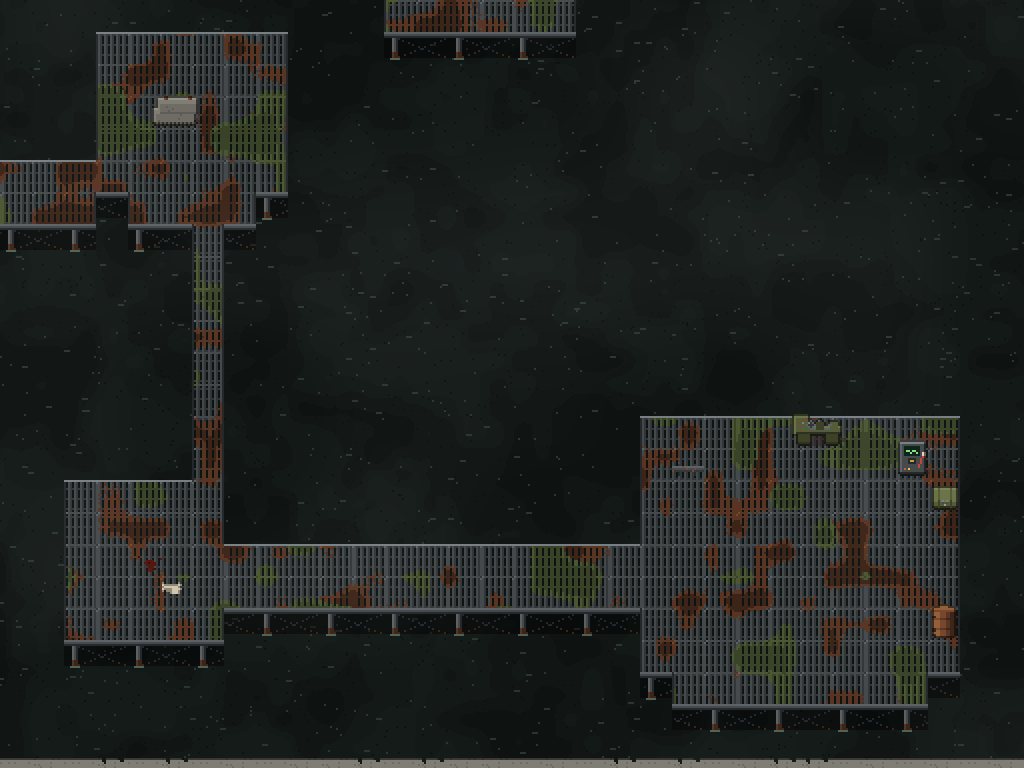
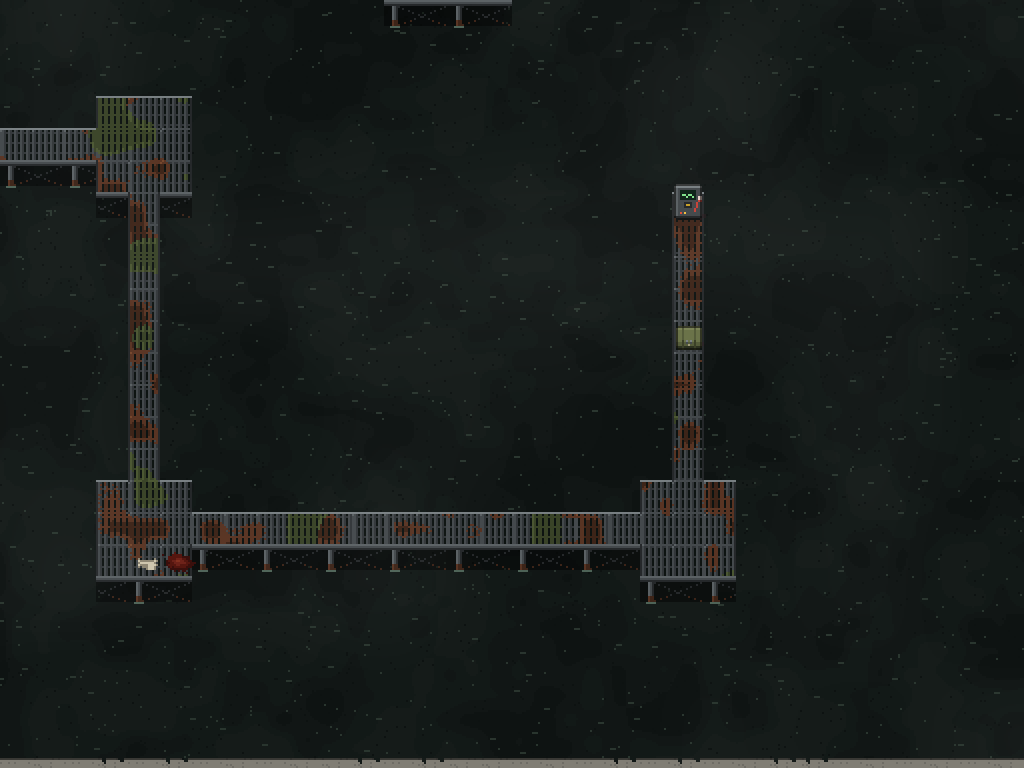
Depths levels 1-2: 3x3 islands, single catwalks, pumps at the end of thin spurs
Claude-Session: https://claude.ai/code/session_01JJL3emrHtazYD3rAoJR8Qe

Changed region(s): [[0.0625, 0.0312, 0.9375, 0.9688], [0.0, 0.1562, 0.0938, 0.3438], [0.375, 0.0, 0.5625, 0.0938]]

diff --git a/Assets/Scripts/GameCore/TierDungeons.LabPlans.cs b/Assets/Scripts/GameCore/TierDungeons.LabPlans.cs
@@ -290,37 +290,37 @@ namespace GameCore
                 "################################################################",
                 "################################################################",
                 "##WWWWWWWWWWWWWWWWWWWWWWWWWWWWWWWWWWWWWWWWWWWWWWWWWWWWWWWWWWWW##",
-                "##W=e======WWWWWWWWWWWWWWWWWWWWWWWWWWWWWWWWWWWWWWWWWWWWWWWWWWW##",
-                "##W==U=====WWWWW=====WWWWWWWWWWWWWWWWWWWWWWWWWWWWWWWWWWWWWWWWW##",
-                "##W========WWWWW=====WWWWWWWWWWWWWWWWWWWWWWWWWWWWWWWWWWWWWWWWW##",
-                "##W=================*WWWWWWWWWWWWWWWWWWWWWWWWWWWWWWWWWWWWWWWWW##",
-                "##W==================WWWWWWWWWWWWWWWWWWWWWWWWWWWWWWWWWWWWWWWWW##",
-                "##WW=======WWWWW====WWWWWWWWWWWWWWWWWWWW======WWWWWWWWWWWWWWWW##",
-                "##WWWWWWWWWWWWWWWW==WWWWWWWWWWWWWWWWWWWW====e=WWWWWWWWWWWWWWWW##",
-                "##WWWWWWWWWWWWWWWW==WWWWWWWWWWWWWWWWWWWW==S===WWWWWWWWWWWWWWWW##",
-                "##WWWWWWWWWWWWWWWW==WWWWWWWWWWWWWWWWWWWW======WWWWWWWWWWWWWWWW##",
-                "##WWWWWWWWWWWWWWWW==WWWWWWWWWWWWWWWWWWWW======WWWWWWWWWWWWWWWW##",
-                "##WWWWWWWWWWWWWWWW==WWWWWWWWWWW======WWWWWWWWWWWWWWWWWWWWWWWWW##",
-                "##WW====WWWWWWWWWW==WWWWWWWWWWW======WWWWWWWWWWWWWWWWWWWWWWWWW##",
-                "##WW=c==WWWWWW======WWWWWWWWWWW==h===WWWWWWWWWWWWWWWWWWWWWWWWW##",
-                "##WW==\"=============WWWWWWWWWWW======WWWWWWWWWWWWWWWWWWWWWWWWW##",
-                "##WW====WWWWWW=======================WWWWWWWWWWWWWWWWWWWWWWWWW##",
-                "##WWWWWWWWWWWWW================W====WWWWWWWWWWWWWWWWWWWWWWWWWW##",
-                "##WWWWWWWWWWWWWWWWWWWWWWWWWWWWWWWW=WWWWWWWWWWWWWWWWWWWWWWWWWWW##",
-                "##WWWWWWWWWWWWWWWWWWWWWWWWWWWWWWWW=WWWWWWWWWWWWWWWWWWWWWWWWWWW##",
-                "##WWWWWWWWWWWWWWWWWWWWWWWWWWWWWWWW=WWWWWWWWWWWWWWWWWWWWWWWWWWW##",
-                "##WWWWWWWWWWWWWWWWWWWWWWWWWWWWWWWW=WWWWWWWWWWWWWWWWWWWWWWWWWWW##",
-                "##WWWWWWWWWWWWWWWWWWWWWWWWWWWWWWWW=WWWWWWWWWWWWWWWWWWWWWWWWWWW##",
-                "##WWWWWWWWWWWWWWWWWWWWWWWWWWWWWWWW=WWWWWWWWWWWWWWWWWWWWWWWWWWW##",
-                "##WWWWWWWWWWWWWWWWWWWWWWWWWWWWWWWW=WWWWWWWWWWWWW=====m====WWWW##",
-                "##WWWWWWWWWWWWWWWWWWWWWWWWWWWWWWWW=WWWWWWWWWWWWW=p======6=WWWW##",
-                "##WWWWWWWWWWWWWWWWWWWWWWWWWWWW=====WWWWWWWWWWWWW==========WWWW##",
-                "##WWWWWWWWWWWWWWWWWWWWWWWWWWWW=====WWWWWWWWWWWWW==========WWWW##",
-                "##WWWWWWWWWWWWWWWWWWWWWWWWWWWW==~=========================WWWW##",
-                "##WWWWWWWWWWWWWWWWWWWWWWWWWWWW===&========================WWWW##",
-                "##WWWWWWWWWWWWWWWWWWWWWWWWWWWW=====WWWWWWWWWWWWW=========bWWWW##",
-                "##WWWWWWWWWWWWWWWWWWWWWWWWWWWWWWWWWWWWWWWWWWWWWW==i=======WWWW##",
-                "##WWWWWWWWWWWWWWWWWWWWWWWWWWWWWWWWWWWWWWWWWWWWWWW========WWWWW##",
+                "##W=e===WWWWWWWWWWWWWWWWWWWWWWWWWWWWWWWWWWWWWWWWWWWWWWWWWWWWWW##",
+                "##W==U==WWWWWWWW===WWWWWWWWWWWWWWWWWWWWWWWWWWWWWWWWWWWWWWWWWWW##",
+                "##W==============*=WWWWWWWWWWWWWWWWWWWWWWWWWWWWWWWWWWWWWWWWWWW##",
+                "##WW====WWWWWWWW===WWWWWWWWWWWWWWWWWWWWWWWWWWWWWWWWWWWWWWWWWWW##",
+                "##WWWWWWWWWWWWWWW=WWWWWWWWWWWWWWWWWWWWWWWWWWWWWWWWWWWWWWWWWWWW##",
+                "##WWWWWWWWWWWWWWW=WWWWWWWWWWWWWWWWWWWWWW===eWWWWWWWWWWWWWWWWWW##",
+                "##WWWWWWWWWWWWWWW=WWWWWWWWWWWWWWWWWWWWWW=S==WWWWWWWWWWWWWWWWWW##",
+                "##WWWWWWWWWWWWWWW=WWWWWWWWWWWWWWWWWWWWWW====WWWWWWWWWWWWWWWWWW##",
+                "##WWWWWWWWWWWWWWW=WWWWWWWWWWWWWWWWWWWWWW====WWWWWWWWWWWWWWWWWW##",
+                "##WWWWWWWWWWWWWWW=WWWWWWWWWWWWWWWWWWWWWWWWWWWWWWWWWWWWWWWWWWWW##",
+                "##WWWWWWWWWWWWWWW=WWWWWWWWWWWWWWWWWWWWWWWWWWWWWWWWWWWWWWWWWWWW##",
+                "##WWWWWWWWWWWWWWW=WWWWWWWWWWWWWWWWWWWWWWWWWWWWWWWWWWWWWWWWWWWW##",
+                "##WWWc==WWWWWWWW===WWWWWWWWWWWW===WWWWWWWWWWWWWWWWWWWWWWWWWWWW##",
+                "##WWW=============================WWWWWWWWWWWWWWWWWWWWWWWWWWWW##",
+                "##WWW===WWWWWWWW===WWWWWWWWWWWW===WWWWWWWWWWWWWWWWWWWWWWWWWWWW##",
+                "##WWWWWWWWWWWWWWWWWWWWWWWWWWWWWW=WWWWWWWWWWWWWWWW6WWWWWWWWWWWW##",
+                "##WWWWWWWWWWWWWWWWWWWWWWWWWWWWWW=WWWWWWWWWWWWWWWWiWWWWWWWWWWWW##",
+                "##WWWWWWWWWWWWWWWWWWWWWWWWWWWWWW=WWWWWWWWWWWWWWWW=WWWWWWWWWWWW##",
+                "##WWWWWWWWWWWWWWWWWWWWWWWWWWWWWW=WWWWWWWWWWWWWWWW=WWWWWWWWWWWW##",
+                "##WWWWWWWWWWWWWWWWWWWWWWWWWWWWWW=WWWWWWWWWWWWWWWW=WWWWWWWWWWWW##",
+                "##WWWWWWWWWWWWWWWWWWWWWWWWWWWWWW=WWWWWWWWWWWWWWWW=WWWWWWWWWWWW##",
+                "##WWWWWWWWWWWWWWWWWWWWWWWWWWWWWW=WWWWWWWWWWWWWWWW=WWWWWWWWWWWW##",
+                "##WWWWWWWWWWWWWWWWWWWWWWWWWWWWWW=WWWWWWWWWWWWWWWW=WWWWWWWWWWWW##",
+                "##WWWWWWWWWWWWWWWWWWWWWWWWWWWWWW=WWWWWWWWWWWWWWWW=WWWWWWWWWWWW##",
+                "##WWWWWWWWWWWWWWWWWWWWWWWWWWWWW===WWWWWWWWWWWWWW===WWWWWWWWWWW##",
+                "##WWWWWWWWWWWWWWWWWWWWWWWWWWWWW====================WWWWWWWWWWW##",
+                "##WWWWWWWWWWWWWWWWWWWWWWWWWWWWW=&*WWWWWWWWWWWWWW===WWWWWWWWWWW##",
+                "##WWWWWWWWWWWWWWWWWWWWWWWWWWWWWWWWWWWWWWWWWWWWWWWWWWWWWWWWWWWW##",
+                "##WWWWWWWWWWWWWWWWWWWWWWWWWWWWWWWWWWWWWWWWWWWWWWWWWWWWWWWWWWWW##",
+                "##WWWWWWWWWWWWWWWWWWWWWWWWWWWWWWWWWWWWWWWWWWWWWWWWWWWWWWWWWWWW##",
+                "##WWWWWWWWWWWWWWWWWWWWWWWWWWWWWWWWWWWWWWWWWWWWWWWWWWWWWWWWWWWW##",
                 "##WWWWWWWWWWWWWWWWWWWWWWWWWWWWWWWWWWWWWWWWWWWWWWWWWWWWWWWWWWWW##",
                 "##WWWWWWWWWWWWWWWWWWWWWWWWWWWWWWWWWWWWWWWWWWWWWWWWWWWWWWWWWWWW##",
                 "##WWWWWWWWWWWWWWWWWWWWWWWWWWWWWWWWWWWWWWWWWWWWWWWWWWWWWWWWWWWW##",
@@ -333,40 +333,40 @@ namespace GameCore
                 "################################################################",
                 "################################################################",
                 "##WWWWWWWWWWWWWWWWWWWWWWWWWWWWWWWWWWWWWWWWWWWWWWWWWWWWWWWWWWWW##",
-                "##WWWWWWWWWWWW======WWWWWWWWWWWWWWWWWWWWWWWWWWWWWWWWW=======WW##",
-                "##WWWWWWWWWWWW=c====WWWWWWWWWWWWWWW====WWWWWWWWWWWWW====U===WW##",
-                "##WWWWWWWWWWWW======WWWWWWWWWWWWWWW=====WWWWWWWWWWWW========WW##",
-                "##WWWWWWWWWWWW==============================================WW##",
-                "##WWWWWWWWWWWW====\"=WWWWWWWWWWWWWWW=========================WW##",
-                "##WWWWWWWWWWWW=====WWWWWWWWWWWWWWWWW====WWWWWWWWWWWW=======WWW##",
-                "##WWWWWWWWWWWWWWWWWWWWWWWWWWWWWWWWWWW==WWWWWWWWWWWWWWWWWWWWWWW##",
-                "##WWWWWWWWWWWWWWWWWWWWWW=====WWWWWWWW==WWWWWWWWWWWWWWWWWWWWWWW##",
-                "##WWWWWWWWWWWWWWWWWWWWWW=====WWWWWWWW==WWWWWWWWWWWWWWWWWWWWWWW##",
-                "##WWWWWWWWWWWWWWWWWWWWWW==S==WWWWWWWW==WWWWWWWWWWWWWWWWWWWWWWW##",
-                "##WWWWWWWWWWWWWWWWWWWWWW=====WWWWWWWW==WWWWWWWWWWWWWWWWWWWWWWW##",
-                "##WWWWWWWWWWWWWWWWWWWWWW=====WWWWWWWW==WWWWWWWWWWWWWWWWWWWWWWW##",
-                "##WWWWWWWWWWWWWWWWWWWWWWWWWWWWWWWWWWW==WWWWWWWWWWWWWWWWWWWWWWW##",
-                "##WWWWWWWWWWWWWWW====WWWWWWWWWWWWWWWW==WWWWWWWWWWWWWWWWWWWWWWW##",
-                "##WWWWWWWWWWWWWW======WWWWWWWWWWWWW====WWWWWWWWWWWWWWWWWWWWWWW##",
-                "##WWWWWWWWWWWWWW======WWWWWWWWWWWW======WWWWWWWWWWWWWWWWWWWWWW##",
-                "##WWWWWWWWWWWWWW========================WWWWWWWWWWWWWWWWWWWWWW##",
-                "##WWWWWWWWWWWWWW======WWWWWWWWWWWW======WWWWWWWWWWWWWWWWWWWWWW##",
-                "##WWWWWWWWWWWWWWW====WWWWWWWWWWWWWW=====WWWWWWWWWWWWWWWWWWWWWW##",
-                "##WWWWWWWWWWWWWWWW=WWWWWWWWWWWWWWWWWWW==WWWWWWWWWWWWWWWWWWWWWW##",
-                "##WWWWWWWWWWWWWWWW=WWWWWWWWWWWWWWWWWWW==WWWWWWWWWWWWWWWWWWWWWW##",
-                "##WWWWWWWWWWWWWWWW=WWWWWWWWWWWWWWWWWWW==WWWWWWWWWWWWWWWWWWWWWW##",
-                "##WWWWWWWWWWWWWWWW=WWWWWWWWWWWWWWWWWWW==WWWWWWWWWWWWWWWWWWWWWW##",
-                "##WWWWWWWWWWWWWWWW=WWWWWWWWWWWWWWWWWWW==WWWWWWWWWWWWWWWWWWWWWW##",
-                "##WWWWWWWWWWWWWWWW=WWWWWWWWWWWWWWWWWWW==WWWWWWWWWWWWWWWWWWWWWW##",
-                "##WWWWWWWWWWWWWWWW=WWWWWWWWWWWWWWWWWWW==WWWWWWWWWW==========WW##",
-                "##WWWWWWWWWWWWW======WWWWWWWWWWWWWWWWW==WWWWWWWWWW==mm======WW##",
-                "##WWWWWWWWWWWW=====*=WWWWWWWWWWWWWWWWW==WWWWWWWWWW=======6==WW##",
-                "##WWWWWWWWWWWW=======WWWWWWWWWWWWWW======WWWWWWWWW==========WW##",
-                "##WWWWWWWWWWWW=======WWWWWWWWWWWWWW=======WWWWWWWW==========WW##",
-                "##WWWWWWWWWWWW=t=====WWWWWWWWWWWWWW=e=======================WW##",
-                "##WWWWWWWWWWWWW======WWWWWWWWWWWWWW=======WWWWWWWW=====e====WW##",
-                "##WWWWWWWWWWWWWWWWWWWWWWWWWWWWWWWWW=======WWWWWWWW========x=WW##",
-                "##WWWWWWWWWWWWWWWWWWWWWWWWWWWWWWWWW======WWWWWWWWW==========WW##",
+                "##WWWWWWWWWWWWWWWWWWWWWWWWWWWWWWWWWWWWWWWWWWWWWWWWWWWWWW===WWW##",
+                "##WWWWWWWWWWWWWWWWWc==WWWWWWWWWWWWWWWWWW===WWWWWWWWWWWW==U=WWW##",
+                "##WWWWWWWWWWWWWWWWW========================================WWW##",
+                "##WWWWWWWWWWWWWWWWW===WWWWWWWWWWWWWWWWWW===WWWWWWWWWWWW===WWWW##",
+                "##WWWWWWWWWWWWWWWWWWWWWWWWWWWWWWWWWWWWWWW=WWWWWWWWWWWWWWWWWWWW##",
+                "##WWWWWWWWWWWWWWWWWWWWWWWWWWWWWWWWWWWWWWW=WWWWWWWWWWWWWWWWWWWW##",
+                "##WWWWWWWWWWWWWWWWWWWWWWWWWW====WWWWWWWWW=WWWWWWWWWWWWWWWWWWWW##",
+                "##WWWWWWWWWWWWWWWWWWWWWWWWWW=S==WWWWWWWWW=WWWWWWWWWWWWWWWWWWWW##",
+                "##WWWWWWWWWWWWWWWWWWWWWWWWWW====WWWWWWWWW=WWWWWWWWWWWWWWWWWWWW##",
+                "##WWWWWWWWWWWWWWWWWWWWWWWWWW====WWWWWWWWW=WWWWWWWWWWWWWWWWWWWW##",
+                "##WWWWWWWWWWWWWWWWWWWWWWWWWWWWWWWWWWWWWWW=WWWWWWWWWWWWWWWWWWWW##",
+                "##WWWWWWWWWWWWWWWWWWWWWWWWWWWWWWWWWWWWWWW=WWWWWWWWWWWWWWWWWWWW##",
+                "##WWWWWWWWWWWWWWWWWWWWWWWWWWWWWWWWWWWWWWW=WWWWWWWWWWWWWWWWWWWW##",
+                "##WWWWWWWWWWWWWWWWWWW===WWWWWWWWWWWWWWWW===WWWWWWWWWWWWWWWWWWW##",
+                "##WWWWWWWWWWWWWWWWWWW=========e============WWWWWWWWWWWWWWWWWWW##",
+                "##WWWWWWWWWWWWWWWWWWW===WWWWWWWWWWWWWWWW===WWWWWWWWWWWWWWWWWWW##",
+                "##WWWWWWWWWWWWWWWWWWWW=WWWWWWWWWWWWWWWWWW=WWWWWWWWWWWWWWWWWWWW##",
+                "##WWWWWWWWWWWWWWWWWWWW=WWWWWWWWWWWWWWWWWW=WWWWWWWWWWWWWWWWWWWW##",
+                "##WWWWWWWWWWWWWWWWWWWW=WWWWWWWWWWWWWWWWWW=WWWWWWWWWW6WWWWWWWWW##",
+                "##WWWWWWWWWWWWWWWWWWWW=WWWWWWWWWWWWWWWWWW=WWWWWWWWWWiWWWWWWWWW##",
+                "##WWWWWWWWWWWWWWWWWWWW=WWWWWWWWWWWWWWWWWW=WWWWWWWWWW=WWWWWWWWW##",
+                "##WWWWWWWWWWWWWWWWWWWW=WWWWWWWWWWWWWWWWWW=WWWWWWWWWW=WWWWWWWWW##",
+                "##WWWWWWWWWWWWWWWWWWWW=WWWWWWWWWWWWWWWWWWeWWWWWWWWWW=WWWWWWWWW##",
+                "##WWWWWWWWWWWWWWWWWWWW=WWWWWWWWWWWWWWWWWW=WWWWWWWWWW=WWWWWWWWW##",
+                "##WWWWWWWWWWWWWWWWWWWW=WWWWWWWWWWWWWWWWWW=WWWWWWWWWW=WWWWWWWWW##",
+                "##WWWWWWWWWWWWWWWWWWWW=WWWWWWWWWWWWWWWWWW=WWWWWWWWWW=WWWWWWWWW##",
+                "##WWWWWWWWWWWWWWWWWWW*==WWWWWWWWWWWWWWWWW=WWWWWWWWWW=WWWWWWWWW##",
+                "##WWWWWWWWWWWWWWWWWWW===WWWWWWWWWWWWWWWW===WWWWWWWW===WWWWWWWW##",
+                "##WWWWWWWWWWWWWWWWWWW==tWWWWWWWWWWWWWWWW==============WWWWWWWW##",
+                "##WWWWWWWWWWWWWWWWWWWWWWWWWWWWWWWWWWWWWW===WWWWWWWW===WWWWWWWW##",
+                "##WWWWWWWWWWWWWWWWWWWWWWWWWWWWWWWWWWWWWWWWWWWWWWWWWWWWWWWWWWWW##",
+                "##WWWWWWWWWWWWWWWWWWWWWWWWWWWWWWWWWWWWWWWWWWWWWWWWWWWWWWWWWWWW##",
+                "##WWWWWWWWWWWWWWWWWWWWWWWWWWWWWWWWWWWWWWWWWWWWWWWWWWWWWWWWWWWW##",
+                "##WWWWWWWWWWWWWWWWWWWWWWWWWWWWWWWWWWWWWWWWWWWWWWWWWWWWWWWWWWWW##",
                 "##WWWWWWWWWWWWWWWWWWWWWWWWWWWWWWWWWWWWWWWWWWWWWWWWWWWWWWWWWWWW##",
                 "################################################################",
                 "################################################################",

diff --git a/ArtSource/plans/lab_plans.py b/ArtSource/plans/lab_plans.py
@@ -413,40 +413,43 @@ def isle(p, x, y, w, h):                                       # a steel catwalk
 def walk(p, x0, y0, x1, y1, wide=1, ch='='):                 # a catwalk: along x, then along y
     p.hline(x0, x1, y0, wide, ch); p.vline(x1, y0, y1, wide, ch)
 
+def pump_spur(p, x, y0, y1):
+    """The pump at the end of a long 1-wide catwalk (Yan: "the pumps should be at the end of a thin catwalk not in a whole platform,
+    otherwise the eel can't block it by wraping around"): the catwalk from y0 up to y1, the pump on its last tile, a lamp before it."""
+    p.vline(x, y1, y0, 1, '='); p.put(x, y1, '6'); p.put(x, y1 + 1, 'i')
+
 def depths_level1():
-    """The Cistern: the eel's first strike. A path of islands from the stairs to the pump on the far side; the stairs down sit on a
-    landing in the middle, plainly in sight, under the water until the pump runs."""
+    """The Cistern: the eel's first strike. Small islands (3x3, room for it to wrap) on single catwalks from the stairs to the last
+    island, then a long thin spur out to the pump. The stairs down sit on a landing in plain sight, under the water until the pump runs."""
     p = cistern(64, 40, 211)
-    isle(p, 3, 3, 8, 6); p.put(5, 4, 'U'); p.put(4, 3, 'e')                   # the landing at the foot of the stairs
-    walk(p, 11, 6, 15, 6, 2); isle(p, 16, 4, 5, 5)                            # A: the first island
-    walk(p, 18, 9, 18, 14, 2); isle(p, 14, 15, 6, 4)                          # B
-    walk(p, 8, 16, 13, 16); isle(p, 4, 14, 4, 4); p.put(5, 15, 'c'); p.put(6, 16, '"')   # C: a dead end with a crate (it pays)
-    walk(p, 20, 17, 30, 17, 2); isle(p, 31, 13, 6, 6); p.put(33, 15, 'h')     # D: the middle island, a pillar for cover
-    walk(p, 34, 19, 34, 26, 1)                                                # a 1-wide catwalk south: the tense one
-    isle(p, 30, 27, 5, 5)                                                     # E: the strike island (clear water all round)
-    walk(p, 35, 29, 47, 29, 2); isle(p, 48, 25, 10, 9)                        # F: the pump platform
-    p.put(56, 26, '6'); p.put(53, 25, 'm'); p.put(57, 31, 'b'); p.put(50, 32, 'i'); p.put(49, 26, 'p')
-    isle(p, 40, 8, 6, 5); p.put(42, 10, 'S'); p.put(44, 9, 'e')              # the stairs down: in sight, cut off ...
-    p.hline(37, 39, 14, 2, 'W')                                               # ... by deep water from D (the catwalk is under it)
-    p.put(20, 6, '*'); p.put(32, 29, '~'); p.put(33, 30, '&')                # someone didn't make it
+    isle(p, 3, 3, 5, 4); p.put(5, 4, 'U'); p.put(4, 3, 'e')                   # the landing at the foot of the stairs
+    walk(p, 8, 5, 15, 5); isle(p, 16, 4, 3, 3)                                # A
+    walk(p, 17, 7, 17, 14); isle(p, 16, 15, 3, 3)                             # B
+    walk(p, 8, 16, 15, 16); isle(p, 5, 15, 3, 3); p.put(5, 15, 'c')           # C: a dead end with a crate (it pays)
+    walk(p, 19, 16, 30, 16); isle(p, 31, 15, 3, 3)                            # D: the middle
+    walk(p, 32, 18, 32, 26)                                                   # south: the long one
+    isle(p, 31, 27, 3, 3); p.put(33, 29, '*'); p.put(32, 29, '&')            # E: the strike island (clear water all round), someone who didn't make it
+    walk(p, 34, 28, 47, 28); isle(p, 48, 27, 3, 3)                            # F: the last island
+    pump_spur(p, 49, 26, 18)                                                  # the pump, out on its spur
+    isle(p, 40, 8, 4, 4); p.put(41, 9, 'S'); p.put(43, 8, 'e')               # the stairs down: in sight, cut off by the water
+    p.put(17, 5, '*')
     return p
 
 def depths_level2():
-    """The Lower Cistern: darker, more broken, a search. The pump is the farthest island; three dead ends; set points for the eel's
-    strikes on the long catwalks. The stairs down are on a landing in the middle, under the water."""
+    """The Lower Cistern: a search over longer, thinner catwalks (the eel's strikes come on them), three dead ends, the pump on a spur
+    off the farthest island. The stairs down are on a landing in the middle, under the water."""
     p = cistern(64, 40, 212)
-    isle(p, 52, 3, 8, 6); p.put(56, 4, 'U')                                   # the landing (stairs up, north-east)
-    walk(p, 40, 6, 51, 6, 2); isle(p, 35, 4, 5, 5)                           # A
-    walk(p, 20, 6, 34, 6, 1); isle(p, 14, 3, 6, 6); p.put(15, 4, 'c'); p.put(18, 7, '"')   # C: a dead end (north-west), a crate, papers
-    walk(p, 37, 9, 37, 16, 2); isle(p, 34, 17, 6, 5)                         # B
-    walk(p, 22, 19, 33, 19, 1); isle(p, 16, 16, 6, 6)                        # D: west, over the long narrow catwalk
-    walk(p, 18, 22, 18, 28, 1); isle(p, 14, 29, 7, 6); p.put(15, 33, 't'); p.put(19, 30, '*')   # E: a dead end (south-west)
-    walk(p, 38, 22, 38, 30, 2); isle(p, 35, 31, 7, 6)                        # F: south
-    walk(p, 42, 33, 49, 33, 1); isle(p, 50, 28, 10, 9)                       # G: the pump, the farthest platform
-    p.put(57, 30, '6'); p.put(52, 29, 'm'); p.put(53, 29, 'm'); p.put(58, 35, 'x'); p.put(55, 34, 'e')
-    isle(p, 24, 10, 5, 5); p.put(26, 12, 'S')                                 # the stairs down, under the water ...
-    p.hline(22, 23, 14, 1, 'W'); p.put(22, 15, 'W')                          # ... between D and the landing
-    p.put(36, 33, 'e')
+    isle(p, 55, 3, 4, 4); p.put(57, 4, 'U')                                   # the landing (stairs up, north-east)
+    walk(p, 43, 5, 54, 5); isle(p, 40, 4, 3, 3)                               # A
+    walk(p, 22, 5, 39, 5); isle(p, 19, 4, 3, 3); p.put(19, 4, 'c')            # C: a dead end over the longest catwalk, a crate
+    walk(p, 41, 7, 41, 15); isle(p, 40, 16, 3, 3)                             # B
+    walk(p, 24, 17, 39, 17); isle(p, 21, 16, 3, 3)                            # D: west
+    walk(p, 22, 19, 22, 28); isle(p, 21, 29, 3, 3); p.put(23, 31, 't'); p.put(21, 29, '*')   # E: a dead end (south-west)
+    walk(p, 41, 19, 41, 29); isle(p, 40, 30, 3, 3)                            # F: south
+    walk(p, 43, 31, 50, 31); isle(p, 51, 30, 3, 3)                            # G: the farthest island
+    pump_spur(p, 52, 29, 21)                                                  # the pump, out on its spur
+    isle(p, 28, 9, 4, 4); p.put(29, 10, 'S')                                  # the stairs down, under the water
+    p.put(41, 25, 'e'); p.put(30, 17, 'e')
     return p
 
 def depths_level3():
@@ -524,5 +527,9 @@ if __name__ == "__main__":
         assert has(stages[0][1], '6') and not has(stages[0][1], goal), (name, "the pump in reach, the way on not")
         floor = {(x, y) for y in range(p.h) for x in range(p.w) if g[y][x] not in '#n'}
         assert floor <= stages[-1][1], (name, "drained, every tile", sorted(floor - stages[-1][1])[:6])
+        # before the drain: the only dry tiles out of reach are the ones round the way on (no stray bits standing in the water)
+        dry = {t for t in floor if g[t[1]][t[0]] != 'W'}
+        way = key_walk(p, goal, {}, {'W': 'never'})[0][-1][1]
+        assert dry - stages[0][1] <= way, (name, "dry tiles cut off in the water", sorted(dry - stages[0][1] - way)[:6])
         print(name, p.w, "x", p.h, "pump in reach at the start,", goal, "only after", drain)
         open(os.path.join(here, f"{name}.txt"), "w").write("\n".join(rows))

diff --git a/ArtSource/WORK_LOG.md b/ArtSource/WORK_LOG.md
@@ -4819,3 +4819,14 @@ Yan asked for a render of the brain floating round his enclosure with blinking e
 - Not done: the game atlas (`Assets/Resources/Sprites/world_atlas.bytes`) doesn't have `g_grate` yet - only after Yan approves the look;
   until then Unity draws the decks a flat grey. Stairs between deck and water level, a metal footstep sound (it uses the hard one).
 - Renders: `maps/renders/dungeon/sub_station_depths_levels.jpg`, `sub_station_depths_catwalks_closeup.png`. ALL CHECKS PASSED.
+
+## Thinner catwalks, pumps on spurs (2026-11-04)
+
+- Yan (a sketch over the Level 1 render: the eel's coils across several catwalks and round the pump): "they're a little too wide, also
+  the pumps should be at the end of a thin catwalk not in a whole platform, otherwise the eel can't block it by wraping around, unless
+  it reveals even more of it's body and wraps around like the image".
+- Levels 1-2 redrawn: every island 3x3 (the landings 4x4/5x4), every catwalk 1 wide, each pump at the end of a 9-tile spur off the last
+  island (`pump_spur`), so a coil round the spur cuts you off from it. The sketch's other idea (the eel showing more of its body and
+  wrapping several catwalks at once) is kept for the fight: the catwalks are spaced so it can loop across them.
+- New plan check: before the drain, no dry tile may stand cut off in the water except round the way on (it caught a blood mark and a
+  lamp left in open water by the redraw). ALL CHECKS PASSED. Render: `maps/renders/dungeon/sub_station_depths_levels.jpg`.
